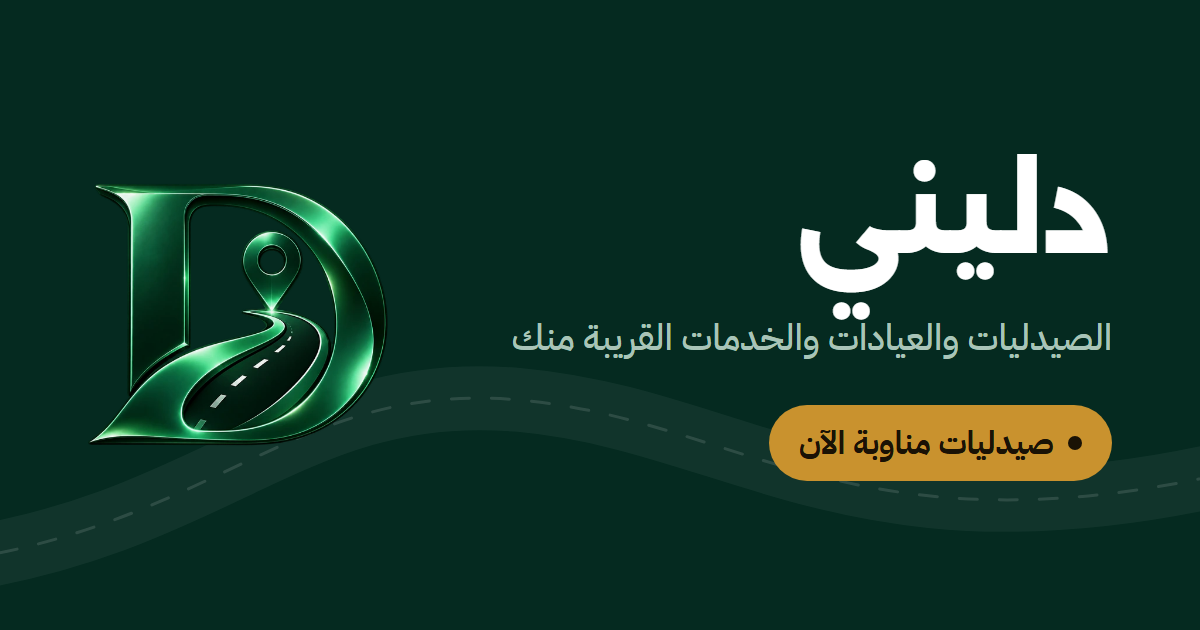
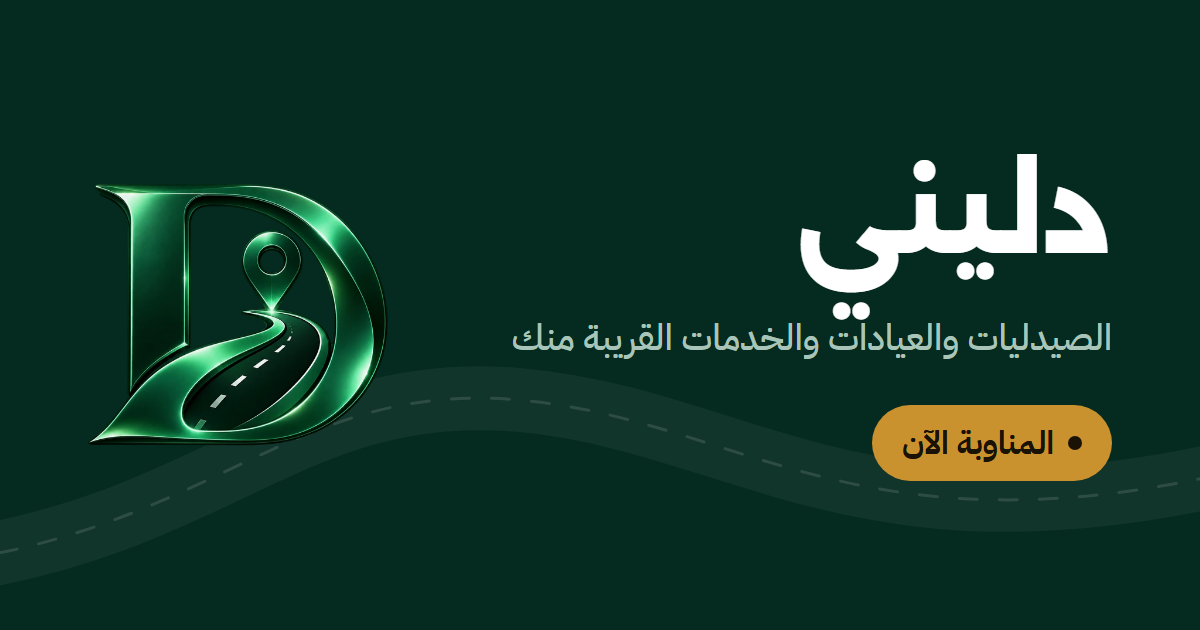
Words: «المناوبة» for the duty rota, «بحث» for search
The owner's call: what users and reviewers read names neither pharmacies on duty nor what to
search for. The app's home and search hints, the duty screens, and the site's duty pages,
description and share card.

Changed region(s): [[0.6167, 0.6333, 0.8942, 0.7841]]

diff --git a/apps/web/components/duty.tsx b/apps/web/components/duty.tsx
@@ -22,9 +22,9 @@ const TABS: { when: DutyWhen; href: string; label: string }[] = [
 ];
 
 export const DUTY_TITLES: Record<DutyWhen, string> = {
-  now: "الصيدليات المناوبة الآن",
-  today: "الصيدليات المناوبة اليوم",
-  tomorrow: "الصيدليات المناوبة غداً",
+  now: "المناوبة الآن",
+  today: "المناوبة اليوم",
+  tomorrow: "المناوبة غداً",
   week: "مناوبات الأسبوع",
 };
 
@@ -93,7 +93,7 @@ async function NowRoster() {
           <section key={g.province.id} aria-labelledby={`p-${g.province.id}`}>
             <h2 id={`p-${g.province.id}`}>{g.province.nameAr}</h2>
             {g.items.length === 0 ? (
-              <Empty illustration="noResults">لا توجد صيدليات مناوبة معلنة حالياً.</Empty>
+              <Empty illustration="noResults">لا توجد مناوبة معلنة حالياً.</Empty>
             ) : (
               <FacilityList items={g.items} />
             )}

diff --git a/apps/web/app/how-we-verify/page.tsx b/apps/web/app/how-we-verify/page.tsx
@@ -66,7 +66,7 @@ export default function HowWeVerifyPage() {
             تسجّل كل صيدلية مواعيد مناوباتها بنفسها من التطبيق، وتظهر «مناوبة الآن» خلال وقت المناوبة فقط. ننصح بالاتصال قبل
             التوجّه، وإن وجدت صيدلية مغلقة في وقت مناوبتها فأبلغنا.
           </p>
-          <p><Link href="/duty">اعرض الصيدليات المناوبة الآن</Link> أو <Link href="/duty/week">مناوبات الأسبوع</Link></p>
+          <p><Link href="/duty">اعرض المناوبة الآن</Link> أو <Link href="/duty/week">مناوبات الأسبوع</Link></p>
         </Block>
 
         <Block id="report" icon="flag" title="وجدت معلومة خاطئة؟">

diff --git a/apps/web/app/layout.tsx b/apps/web/app/layout.tsx
@@ -6,7 +6,7 @@ import { SiteShell } from "../components/site-shell";
 import { THEME_SCRIPT } from "../components/theme-toggle";
 import { SITE_NAME, siteUrl } from "../lib/config";
 
-const description = "دليني: دليل الأماكن في مدينتك، من الصيدليات المناوبة إلى المخابز والأسواق ومحطات الوقود، مع أوقات الدوام وطرق التواصل والطريق إليها.";
+const description = "دليني: دليل الأماكن في مدينتك، من المناوبة الليلية إلى المخابز والأسواق ومحطات الوقود، مع أوقات الدوام وطرق التواصل والطريق إليها.";
 
 export const metadata: Metadata = {
   metadataBase: siteUrl(),

diff --git a/apps/web/app/page.tsx b/apps/web/app/page.tsx
@@ -149,7 +149,7 @@ export default async function HomePage({
                   <Unavailable />
                 ) : onDuty.items.length === 0 ? (
                   <p className="muted">
-                    لا توجد صيدلية مناوبة مسجّلة في هذه الساعة. <Link href="/duty/today">مناوبات اليوم</Link>
+                    لا توجد مناوبة مسجّلة في هذه الساعة. <Link href="/duty/today">مناوبات اليوم</Link>
                   </p>
                 ) : (
                   <FacilityList items={onDuty.items} />

diff --git a/apps/web/app/not-found.tsx b/apps/web/app/not-found.tsx
@@ -10,7 +10,7 @@ export default function NotFound() {
       <div className="actions">
         <Link className="button" href="/">العودة إلى الرئيسية</Link>
         <Link className="button button-alt" href="/search">ابحث في الدليل</Link>
-        <Link className="button button-alt" href="/duty">الصيدليات المناوبة</Link>
+        <Link className="button button-alt" href="/duty">المناوبة</Link>
       </div>
     </div>
   );

diff --git a/apps/web/app/duty/tomorrow/page.tsx b/apps/web/app/duty/tomorrow/page.tsx
@@ -6,7 +6,7 @@ export const revalidate = 60;
 
 export const metadata = pageMetadata({
   title: DUTY_TITLES.tomorrow,
-  description: "الصيدليات المناوبة غداً في كل محافظة، مع أوقات المناوبة وأرقام التواصل والموقع.",
+  description: "المناوبة غداً في كل محافظة، مع أوقات المناوبة وأرقام التواصل والموقع.",
   path: "/duty/tomorrow",
 });
 

diff --git a/apps/web/app/duty/page.tsx b/apps/web/app/duty/page.tsx
@@ -10,7 +10,7 @@ export const revalidate = 60;
 
 export const metadata = pageMetadata({
   title: DUTY_TITLES.now,
-  description: "قائمة الصيدليات المناوبة الآن في كل محافظة مع أرقام التواصل والموقع.",
+  description: "قائمة المناوبة الآن في كل محافظة مع أرقام التواصل والموقع.",
   path: "/duty",
 });
 

diff --git a/apps/web/scripts/og-card.html b/apps/web/scripts/og-card.html
@@ -45,7 +45,7 @@
     <div>
       <h1>دليني</h1>
       <p>الصيدليات والعيادات والخدمات القريبة منك</p>
-      <span class="chip">صيدليات مناوبة الآن</span>
+      <span class="chip">المناوبة الآن</span>
     </div>
     <img class="mark" src="../../../packages/design-tokens/brand/symbol-512.webp" alt="">
   </main>
